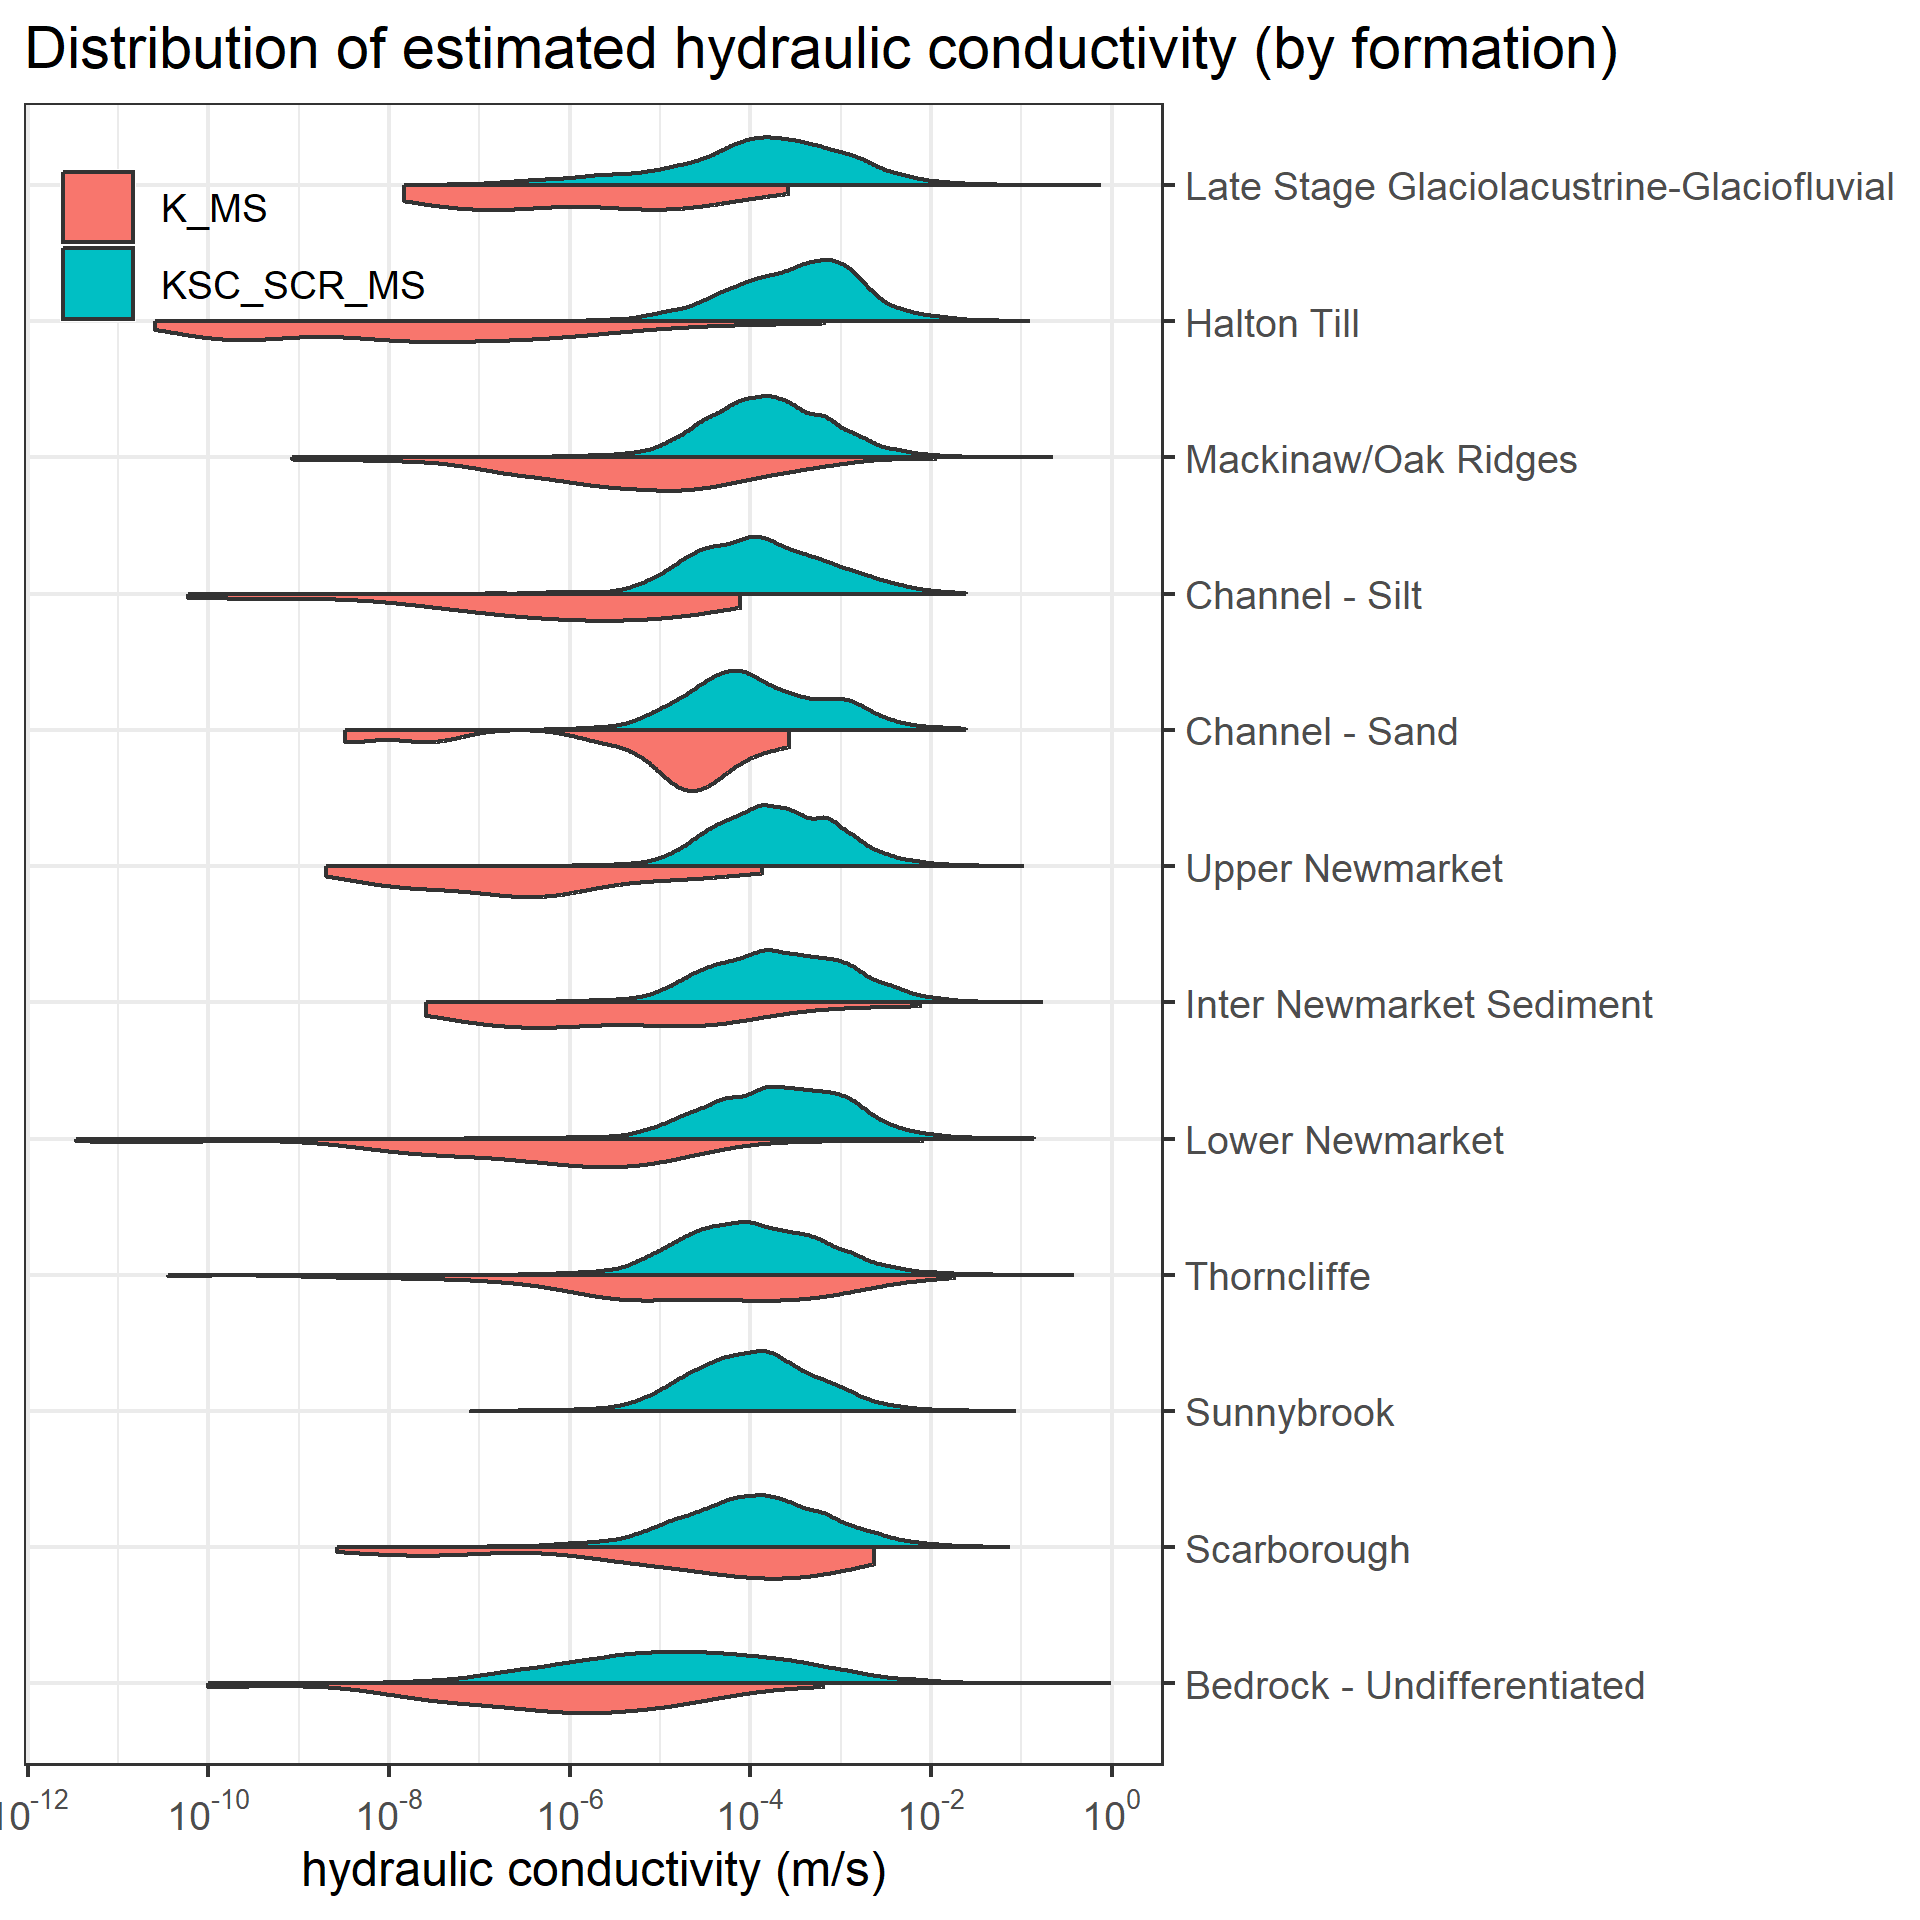
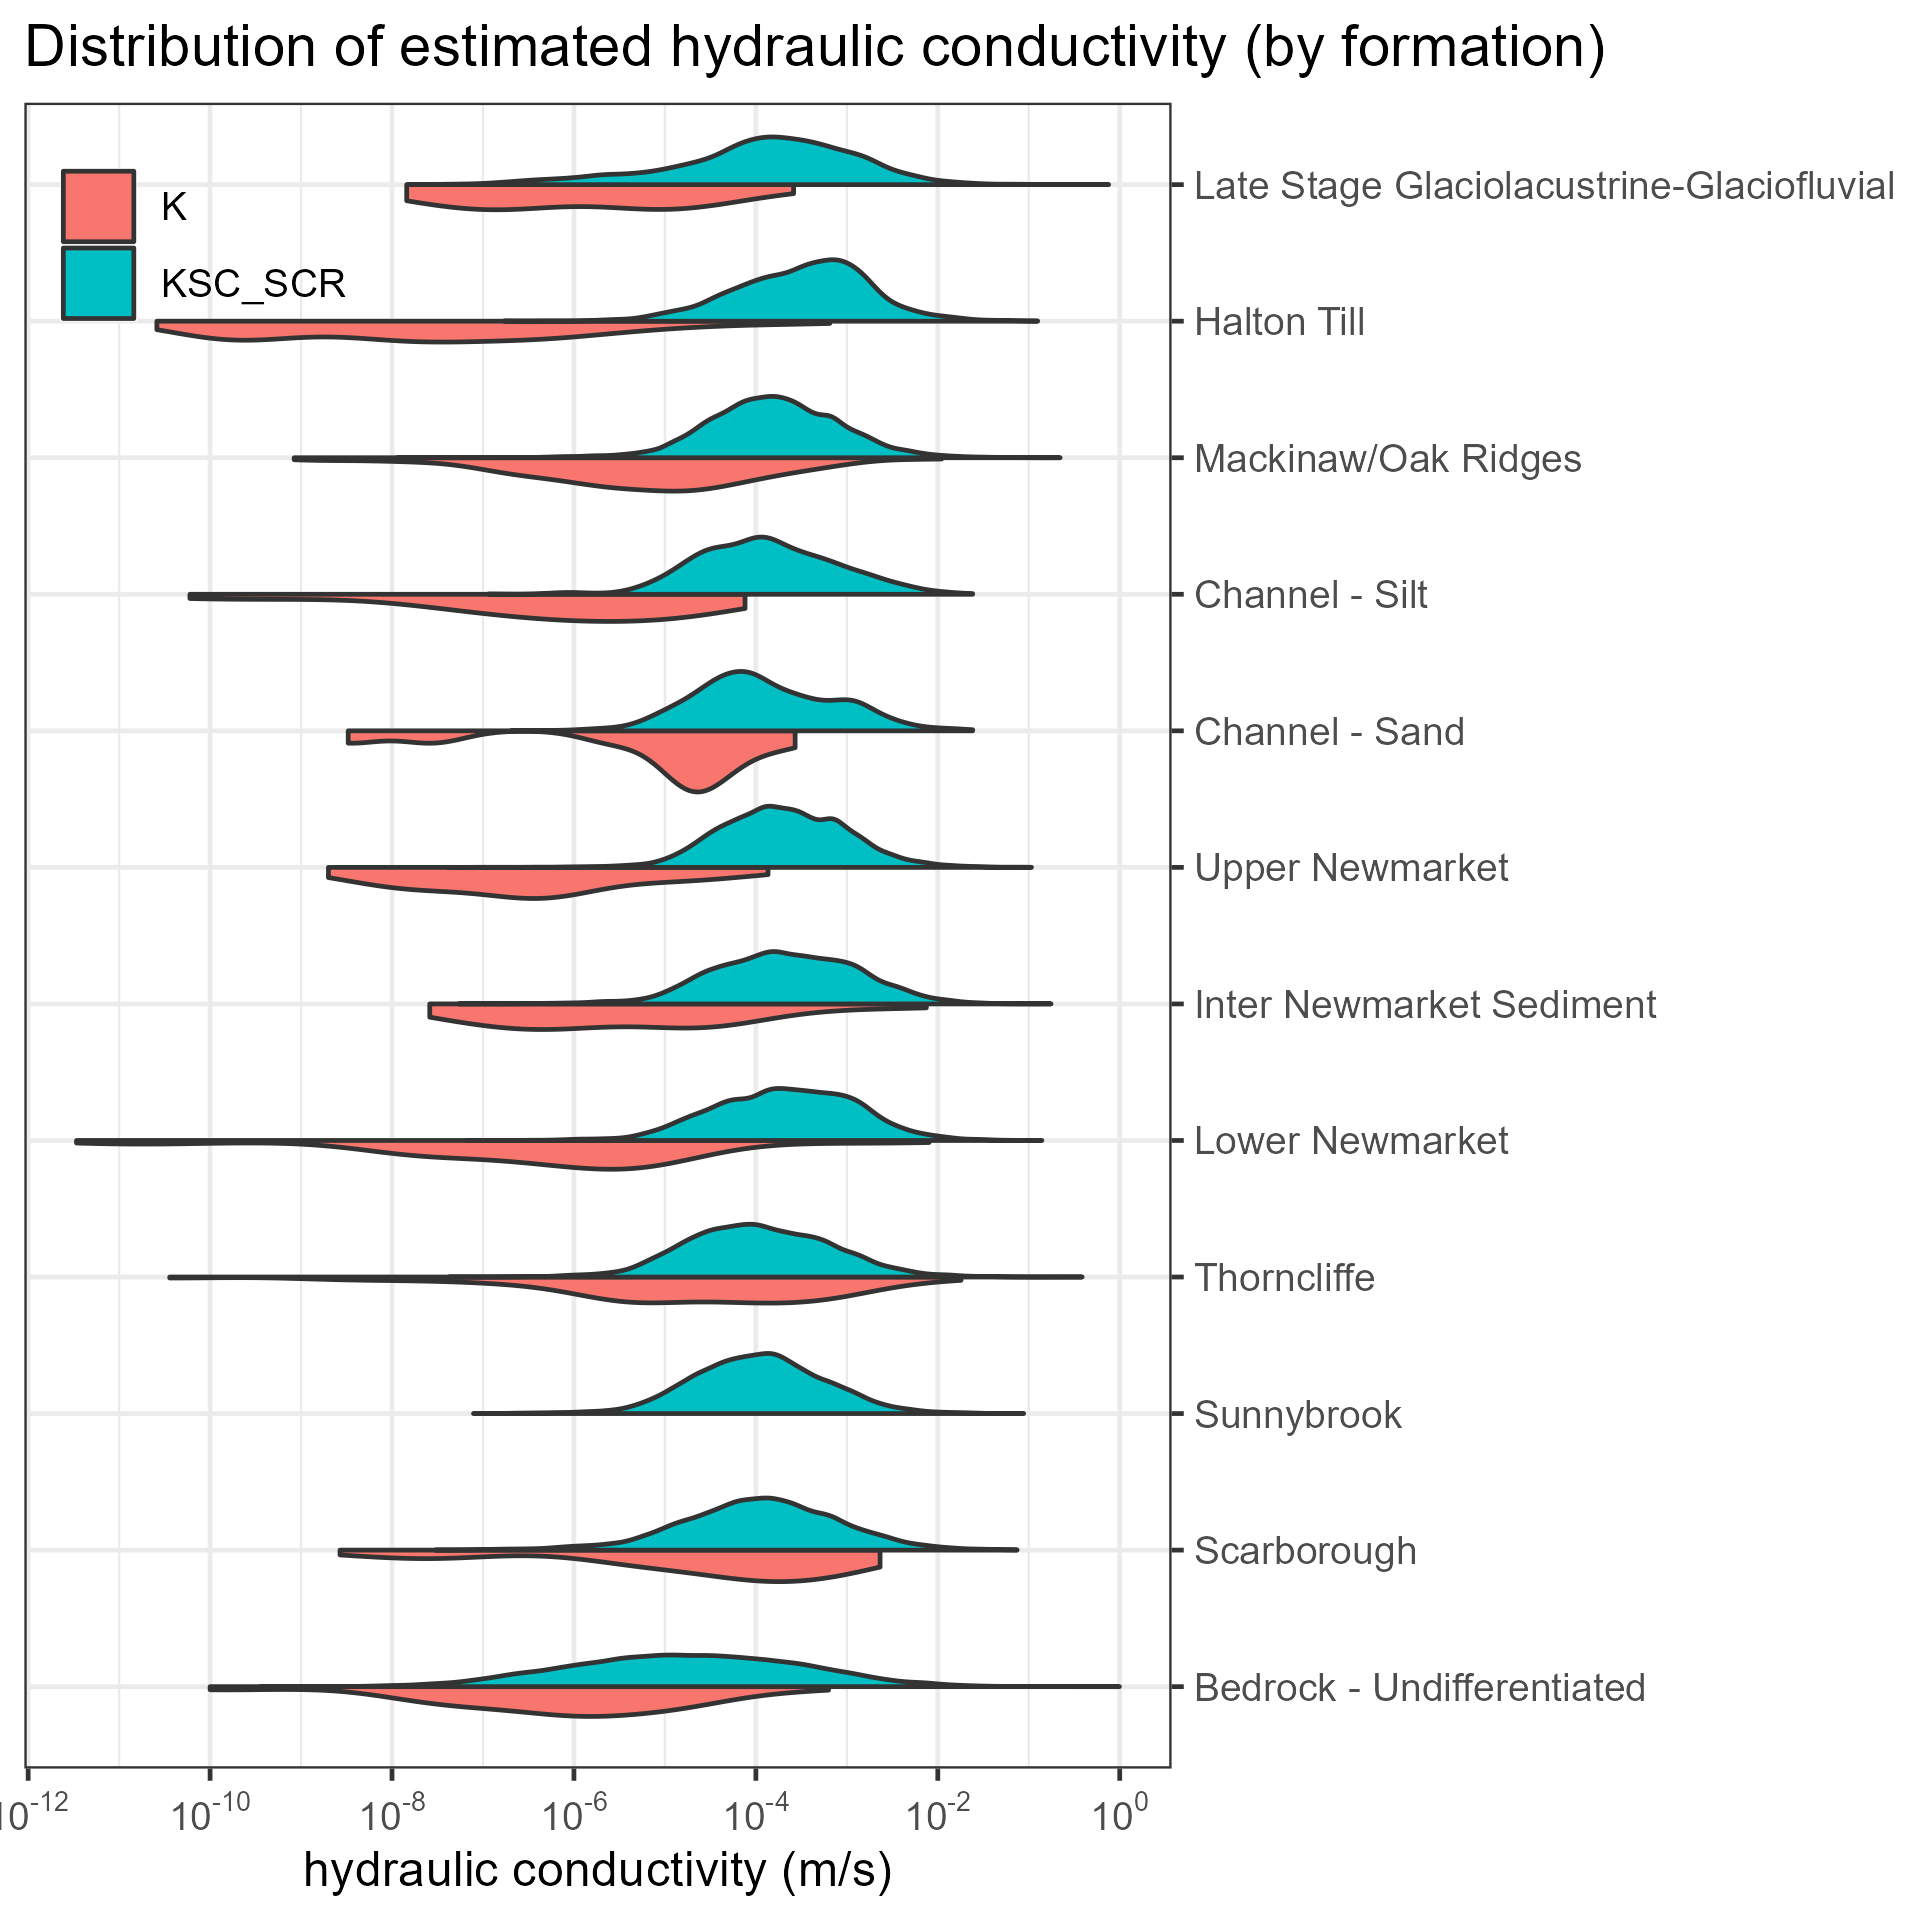
updated hydraulic properties (remove "_MS")

diff --git a/_layouts/default.html b/_layouts/default.html
@@ -5,6 +5,7 @@
     <meta charset='utf-8'>
     <meta http-equiv="X-UA-Compatible" content="IE=edge">
     <meta name="viewport" content="width=device-width,maximum-scale=2">
+    <meta name="image" property="og:image" content="https://github.com/OWRC/logos/blob/main/ORMGP_logo_no_text.png?raw=true">
     <link rel="stylesheet" type="text/css" media="screen" href="{{ '/assets/css/style.css?v=' | append: site.github.build_revision | relative_url }}">
 
 {% seo %}

diff --git a/md/hydraulicProperties.md b/md/hydraulicProperties.md
@@ -8,12 +8,12 @@ output: html_document
 The ORMGP is actively compiling hydrogeologic parameter estimates (e.g., porosity, specific capacity, storativity, transmissivity, hydraulic conductivity) into the program's database. To date, activities have focussed on collation of hydraulic conductivity (K) and specific capacity (SC) estimates. Further information on the use of water well specific capacity tests to estimate transmissivity and hydraulic conductivity can be found in Theis et al. (1963), Walton (1970), Bradbury and Rothschild (1985), Domenico and Schwartz (1990), Richard et al. (2016), and Priebe et al. (2018). For the ORMGP study area, the specific capacity estimates are being extended into estimates of transmissivity (T) and hydraulic conductivity (K) utilizing the methodology of Bradbury and Rothschild (1985). Further information of methodology is included in the [program's database manual](https://owrc.github.io/database-manual/Contents/TOC.html).
 
 
-1. K_MS - estimates of hydraulic conductivity (K) from slug tests on piezometers/wells (Units = m/s). Locations with K estimates from slug test analysis are shown on Figure 1;
-1. SPEC_CAP_LPMM - specific capacity (pumping rate/maximum drawdown) estimates from data obtained during short-term pumping tests (<4 hours) conducted by well drillers following well installation (Units = L/minute/m). Locations with specific capacity (SC) estimates are shown on Figure 2. The cumulative probability plot of the data is shown on Figure 3;
-1. TSC_M2S - Transmissivity (T) estimates from specific capacity (SC) estimates according to the methodology of Bradbury and Rothschild (1985) which allows for corrections for partial penetration of well screen and incorporates estimates of formation thickness (Units = m<sup>2</sup>/s; Figure 3);
-1. KSC_MS - estimates of hydraulic conductivity (K) from specific capacity (SC) estimates utilizing methodology of Bradbury and Rothschild (1985). Cumulative probability plot of the data shown on Figure 4 (Units = m/s);
-1. TSC_SCR_M2S - estimates of Transmissivity (T) from specific capacity (SC) estimates utilizing methodology of Bradbury and Rothschild (1985). The formation thickness is taken as the screen length (Units = m<sup>2</sup>/s; Figure 3); and
-1. KSC_SCR_MS - estimates of hydraulic conductivity (K) from specific capacity (SC) estimates (Figure 4) utilizing methodology of Bradbury and Rothschild (1985). The formation thickness is taken as the screen length (Units = m/s).
+1. K - estimates of hydraulic conductivity (K) from slug tests on piezometers/wells (Units = m/s). Locations with K estimates from slug test analysis are shown on Figure 1;
+1. SPEC_CAP - specific capacity (pumping rate/maximum drawdown) estimates from data obtained during short-term pumping tests (<4 hours) conducted by well drillers following well installation (Units = L/minute/m). Locations with specific capacity (SC) estimates are shown on Figure 2. The cumulative probability plot of the data is shown on Figure 3;
+1. TSC - Transmissivity (T) estimates from specific capacity (SC) estimates according to the methodology of Bradbury and Rothschild (1985) which allows for corrections for partial penetration of well screen and incorporates estimates of formation thickness (Units = m<sup>2</sup>/s; Figure 3);
+1. KSC - estimates of hydraulic conductivity (K) from specific capacity (SC) estimates utilizing methodology of Bradbury and Rothschild (1985). Cumulative probability plot of the data shown on Figure 4 (Units = m/s);
+1. TSC_SCR - estimates of Transmissivity (T) from specific capacity (SC) estimates utilizing methodology of Bradbury and Rothschild (1985). The formation thickness is taken as the screen length (Units = m<sup>2</sup>/s; Figure 3); and
+1. KSC_SCR - estimates of hydraulic conductivity (K) from specific capacity (SC) estimates (Figure 4) utilizing methodology of Bradbury and Rothschild (1985). The formation thickness is taken as the screen length (Units = m/s).
 
 
 
@@ -45,13 +45,13 @@ The ORMGP is actively compiling hydrogeologic parameter estimates (e.g., porosit
 
 ![](hydraulicProperties-ggplot-sc.png)
 
-*Figure 3: Cumulative probability plot showing SPEC_CAP_LPMM (but units translated from L/min/m to m2/s), TSC_M2S, and TSC_SCR_M2S.*
+*Figure 3: Cumulative probability plot showing SPEC_CAP, TSC, and TSC_SCR (m²/s).*
 
 <br>
 
 ![](hydraulicProperties-ggplot-k.png)
 
-*Figure 4: Cumulative probability plot showing K_MS, KSC_MS and KSC_SCR_MS.*
+*Figure 4: Cumulative probability plot showing K, KSC and KSC_SCR (m/s).*
 
 
 
@@ -60,38 +60,38 @@ The ORMGP is actively compiling hydrogeologic parameter estimates (e.g., porosit
 
 ![](hydraulicProperties-ggplot-k-violin.png)
 
-*Figure 5: Distribution of conductivities by formation. Upper distribution KSC_MS; Lower distribution KSC_SCR_MS*
+*Figure 5: Distribution of conductivities by formation. Upper distribution KSC; Lower distribution KSC_SCR*
 
 <br>
 
-*Table 1: Summary distribution statistics of conductivity (m/s).*
+*Table 1: Summary distribution statistics of hydraulic conductivity (m/s).*
 
 | Formation | estimate | n | mean | geomean | median |
 |---|---:|---:|---:|---:|---:|
-| Late Stage Glaciolacustrine-Glaciofluvial | KSC_SCR_MS | 12697 | 1.11E-03 | 1.2E-04 | 1.5E-04 |
-|  | K_MS | 12697 | 2.45E-05 | 1.2E-06 | 2.1E-06 |
-| Halton Till | KSC_SCR_MS | 23564 | 1.24E-03 | 3.2E-04 | 3.7E-04 |
-|  | K_MS | 23564 | 1.54E-05 | 2.4E-08 | 2.0E-08 |
-| Mackinaw/Oak Ridges | KSC_SCR_MS | 32684 | 6.59E-04 | 1.6E-04 | 1.5E-04 |
-|  | K_MS | 32684 | 1.70E-04 | 5.4E-06 | 6.7E-06 |
-| Channel - Silt | KSC_SCR_MS | 1643 | 5.68E-04 | 1.3E-04 | 1.2E-04 |
-|  | K_MS | 1643 | 9.48E-06 | 5.7E-07 | 1.1E-06 |
-| Channel - Sand | KSC_SCR_MS | 1850 | 6.00E-04 | 1.2E-04 | 9.9E-05 |
-|  | K_MS | 1850 | 4.67E-05 | 5.5E-06 | 1.9E-05 |
-| Upper Newmarket | KSC_SCR_MS | 23326 | 7.50E-04 | 2.0E-04 | 1.9E-04 |
-|  | K_MS | 23326 | 1.02E-05 | 3.3E-07 | 3.4E-07 |
-| Inter Newmarket Sediment | KSC_SCR_MS | 8929 | 9.74E-04 | 2.1E-04 | 2.1E-04 |
-|  | K_MS | 8929 | 4.01E-04 | 3.5E-06 | 1.0E-06 |
-| Lower Newmarket | KSC_SCR_MS | 29818 | 8.81E-04 | 2.1E-04 | 2.2E-04 |
-|  | K_MS | 29818 | 1.83E-04 | 4.4E-07 | 7.7E-07 |
-| Thorncliffe | KSC_SCR_MS | 23417 | 6.43E-04 | 1.1E-04 | 1.0E-04 |
-|  | K_MS | 23417 | 6.04E-04 | 1.8E-05 | 3.3E-05 |
-| Sunnybrook | KSC_SCR_MS | 11916 | 4.62E-04 | 1.1E-04 | 1.1E-04 |
-|  | K_MS | 11916 | 9.11E-07 | 9.1E-07 | 9.1E-07 |
-| Scarborough | KSC_SCR_MS | 19606 | 6.90E-04 | 1.1E-04 | 1.2E-04 |
-|  | K_MS | 19606 | 3.51E-04 | 2.4E-05 | 9.2E-05 |
-| Bedrock - Undifferentiated | KSC_SCR_MS | 116295 | 5.33E-04 | 1.7E-05 | 1.7E-05 |
-|  | K_MS | 116295 | 2.23E-05 | 7.1E-07 | 1.0E-06 |
+| Late Stage Glaciolacustrine-Glaciofluvial | K | 14 | 2.45E-05 | 1.2E-06 | 2.1E-06 |
+|  | KSC_SCR | 3417 | 1.11E-03 | 1.2E-04 | 1.5E-04 |
+| Halton Till | K | 106 | 1.54E-05 | 2.4E-08 | 2.0E-08 |
+|  | KSC_SCR | 1446 | 1.24E-03 | 3.2E-04 | 3.7E-04 |
+| Mackinaw/Oak Ridges | K | 152 | 1.70E-04 | 5.4E-06 | 6.7E-06 |
+|  | KSC_SCR | 13942 | 6.59E-04 | 1.6E-04 | 1.5E-04 |
+| Channel - Silt | K | 18 | 9.48E-06 | 5.7E-07 | 1.1E-06 |
+|  | KSC_SCR | 873 | 5.68E-04 | 1.3E-04 | 1.2E-04 |
+| Channel - Sand | K | 10 | 4.67E-05 | 5.5E-06 | 1.9E-05 |
+|  | KSC_SCR | 1389 | 6.00E-04 | 1.2E-04 | 9.9E-05 |
+| Upper Newmarket | K | 19 | 1.02E-05 | 3.3E-07 | 3.4E-07 |
+|  | KSC_SCR | 13734 | 7.50E-04 | 2.0E-04 | 1.9E-04 |
+| Inter Newmarket Sediment | K | 21 | 4.01E-04 | 3.5E-06 | 1.0E-06 |
+|  | KSC_SCR | 6111 | 9.74E-04 | 2.1E-04 | 2.1E-04 |
+| Lower Newmarket | K | 61 | 1.83E-04 | 4.4E-07 | 7.7E-07 |
+|  | KSC_SCR | 11657 | 8.81E-04 | 2.1E-04 | 2.2E-04 |
+| Thorncliffe | K | 79 | 6.04E-04 | 1.8E-05 | 3.3E-05 |
+|  | KSC_SCR | 10254 | 6.43E-04 | 1.1E-04 | 1.0E-04 |
+| Sunnybrook | K | 1 | 9.11E-07 | 9.1E-07 | 9.1E-07 |
+|  | KSC_SCR | 6971 | 4.62E-04 | 1.1E-04 | 1.1E-04 |
+| Scarborough | K | 31 | 3.51E-04 | 2.4E-05 | 9.2E-05 |
+|  | KSC_SCR | 6928 | 6.90E-04 | 1.1E-04 | 1.2E-04 |
+| Bedrock - Undifferentiated | K | 53 | 2.23E-05 | 7.1E-07 | 1.0E-06 |
+|  | KSC_SCR | 77114 | 5.33E-04 | 1.7E-05 | 1.7E-05 |
 
 
 
